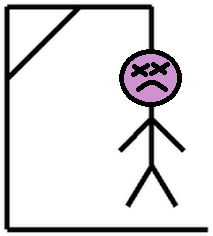
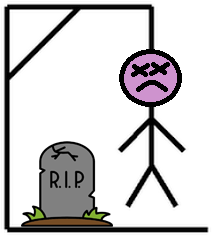
Agregadas mas palabras, agregado dibujo tumba al perder

Changed region(s): [[0.0845, 0.5932, 0.5352, 0.9788]]

diff --git a/src/com/formacion/model/AhorcadoPojo.java b/src/com/formacion/model/AhorcadoPojo.java
@@ -4,13 +4,26 @@ import java.util.Arrays;
 
 public class AhorcadoPojo {
 	
+	
+	//TODO (Agosto) probar usando AJAX y usar contador de tiempo cliente js 
 	private final int INTENTOS_TOTALES = 7;
 	public int intentoActual;
-	private String [] palabrasPosibles = {"informatica", "java", "servlet", "modelo", "controlador", "vista"};
+	
 	private String palabraEscogida;
 	public String palabraGuiones;
 	public char[] letrasAcertadas;
 	public String letrasPulsadas="";
+	private String [] palabrasPosibles = {"Ipartek",
+										 "listener",
+										 "filtro",
+										 "controlador",
+										 "java",
+										 "Tomcat",
+										 "servlet",
+										 "modelo",
+										 "informatica",
+										 "vista"};
+	
 	
 	public String getLetrasPulsadas() {
 		return letrasPulsadas;
